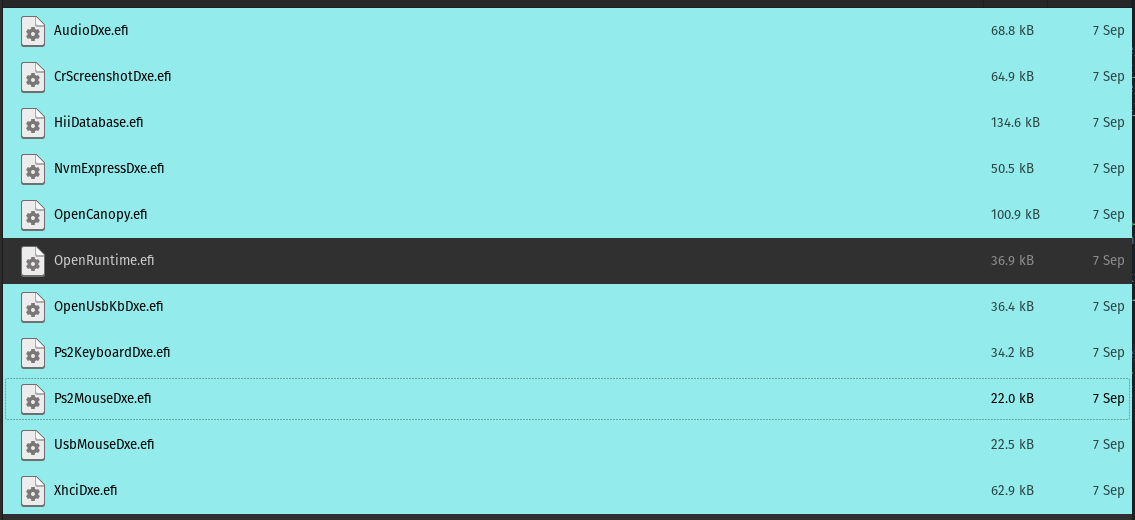
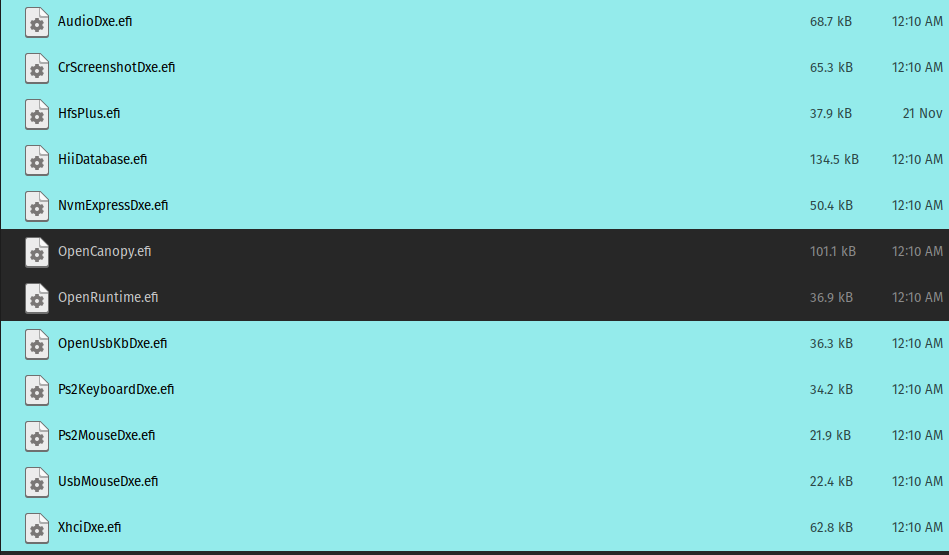
استثناء ملف  OpenCanopy.efi لتفعيل الواجهه الرسوميه

diff --git a/source/EFI-setup/Opencore.md b/source/EFI-setup/Opencore.md
@@ -12,13 +12,13 @@
 
 بعد التنزيل قم بنسخ ملف ال`EFI` الموجود داخل `X64` من داخل الارشيف ولصقه في قسم ال EFI من ال USB
 
-بعد ذلك توجه الى ``EFI/OC/Drivers`` وقم بحذف جميع الملفات ماعدا ==OpenRuntime.efi==
+بعد ذلك توجه الى ``EFI/OC/Drivers`` وقم بحذف جميع الملفات ماعدا ==OpenRuntime.efi== **و** ==OpenCanopy.efi== لتفعيل الواجهه الرسوميه للاوبن كور
 
 ![](/img/Opencore/drivers.png)
 
 بعد ذلك قم بتحميل **[Hfsplus.efi](https://github.com/acidanthera/OcBinaryData/blob/master/Drivers/HfsPlus.efi)** عنطريق الضغط على زر download  ثم ضعه داخل ملف ``EFI/OC/Drivers``
 
-توجه الى ``EFI/OC/Tools`` وقم بحذف جميع الملفات الا ==OpenShell.efi== لانه يساعد على حل المشاكل في الاقلاع
+توجه الى ``EFI/OC/Tools`` وقم بحذف جميع الملفات الا ==OpenShell.efi== لانه يساعد على حل المشاكل في الاقلاع.
 
 ![](/img/Opencore/tools.png)
 
